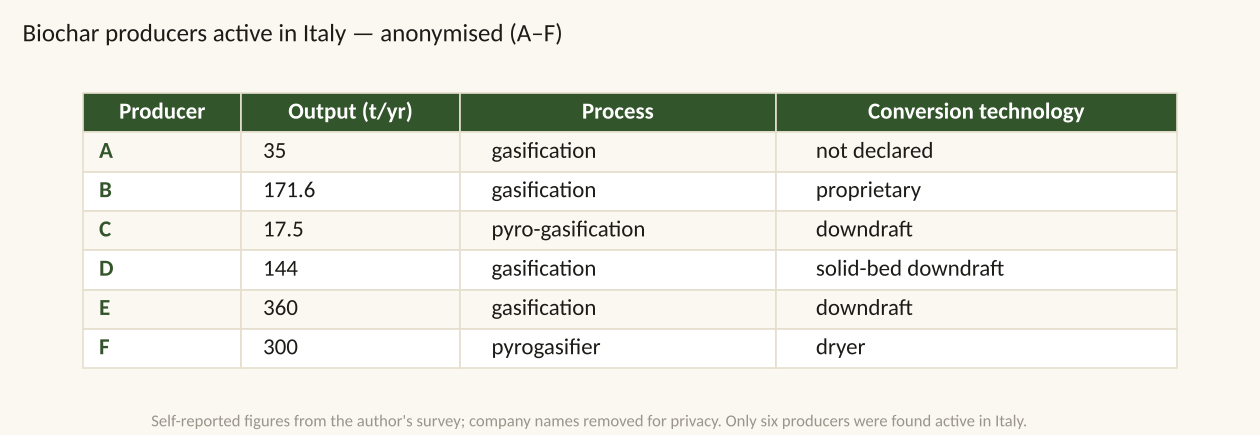
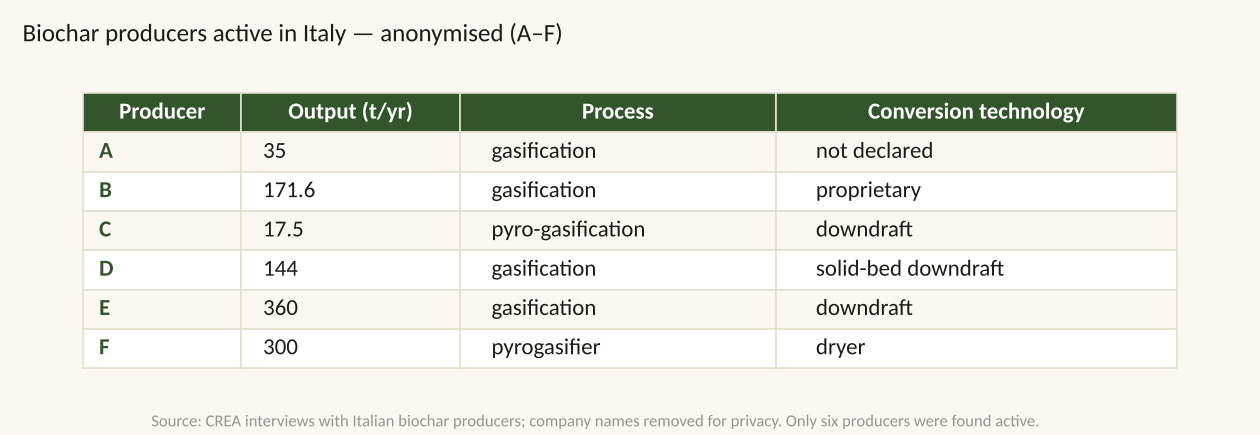
Aggiunta figura a 4 pannelli (dataset produttori cippato) con didascalia; corretta attribuzione tabella produttori biochar a CREA
Claude-Session: https://claude.ai/code/session_01RGa1LfhNjE5WNhxDGToPwu

Changed region(s): [[0.1238, 0.9563, 0.8357, 0.9862]]

diff --git a/README.md b/README.md
@@ -72,7 +72,11 @@ Not everyone agreed to talk with me, but thanks to one of them I made an importa
 
 The available biomass is roughly **ten times** the demand implied by the carbon-black substitution: the bottleneck is not the resource.
 
-![Biochar producers active in Italy (anonymised)](images/biochar_producers.png)
+![The wood-chip producer dataset (anonymised)](images/chip_dataset.png)
+*The anonymised wood-chip producer dataset (22 nodes). **(A)** output is concentrated — the top five nodes supply 74%; **(B)** selling prices span 50–165 €/t (median 85), with one flagged outlier; **(C)** even among the nodes that answered, many figures had to be estimated rather than declared; **(D)** each node's self-assessed data reliability.*
+
+![Biochar producers active in Italy — CREA interviews (anonymised)](images/biochar_producers.png)
+*Biochar producers active in Italy — data from CREA interviews, anonymised (A–F).*
 
 ### The research question
 Putting everything together a single, precise, final research question could be asked:
